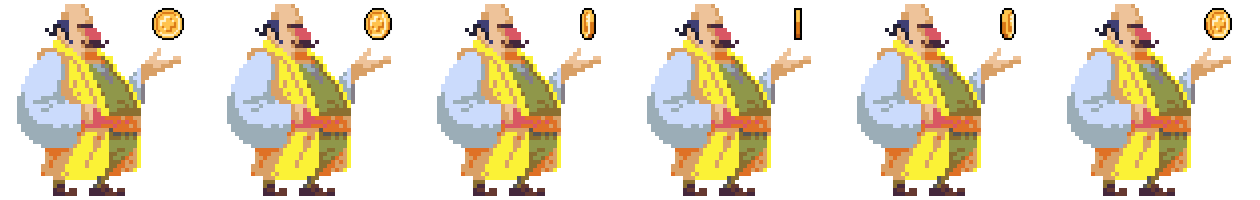
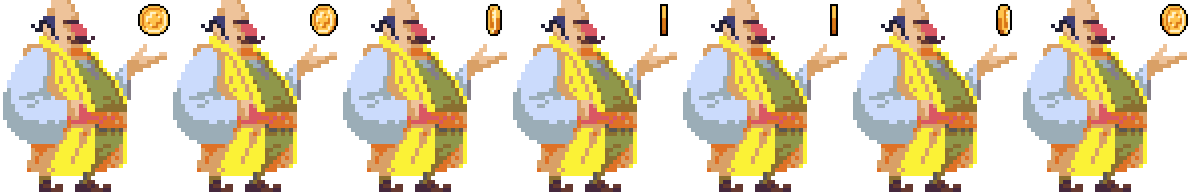
Modify shopkeeper sprite animation closes #189 (#209)
* Upload resized shopkeeper sprite

* Change dimensions of shopkeep in stylesheet

diff --git a/src/components/shop-keep/styles.scss b/src/components/shop-keep/styles.scss
@@ -1,15 +1,15 @@
 .shop-keep-animated {
-  transform: scale(0.75);
+    transform: scale(0.8);
 
-  height: 200px;
-  width: 210px;
+    height: 192px;
+    width: 170px;
 
-  animation: moveShopKeep .75s steps(6) infinite;
-  background-position-x: 0px;
+    animation: moveShopKeep 0.75s steps(7) infinite;
+    background-position-x: 0px;
 }
 
 @keyframes moveShopKeep {
-  100% {
-    background-position-x: 1260px;
-  }
+    100% {
+        background-position-x: 1190px;
+    }
 }
